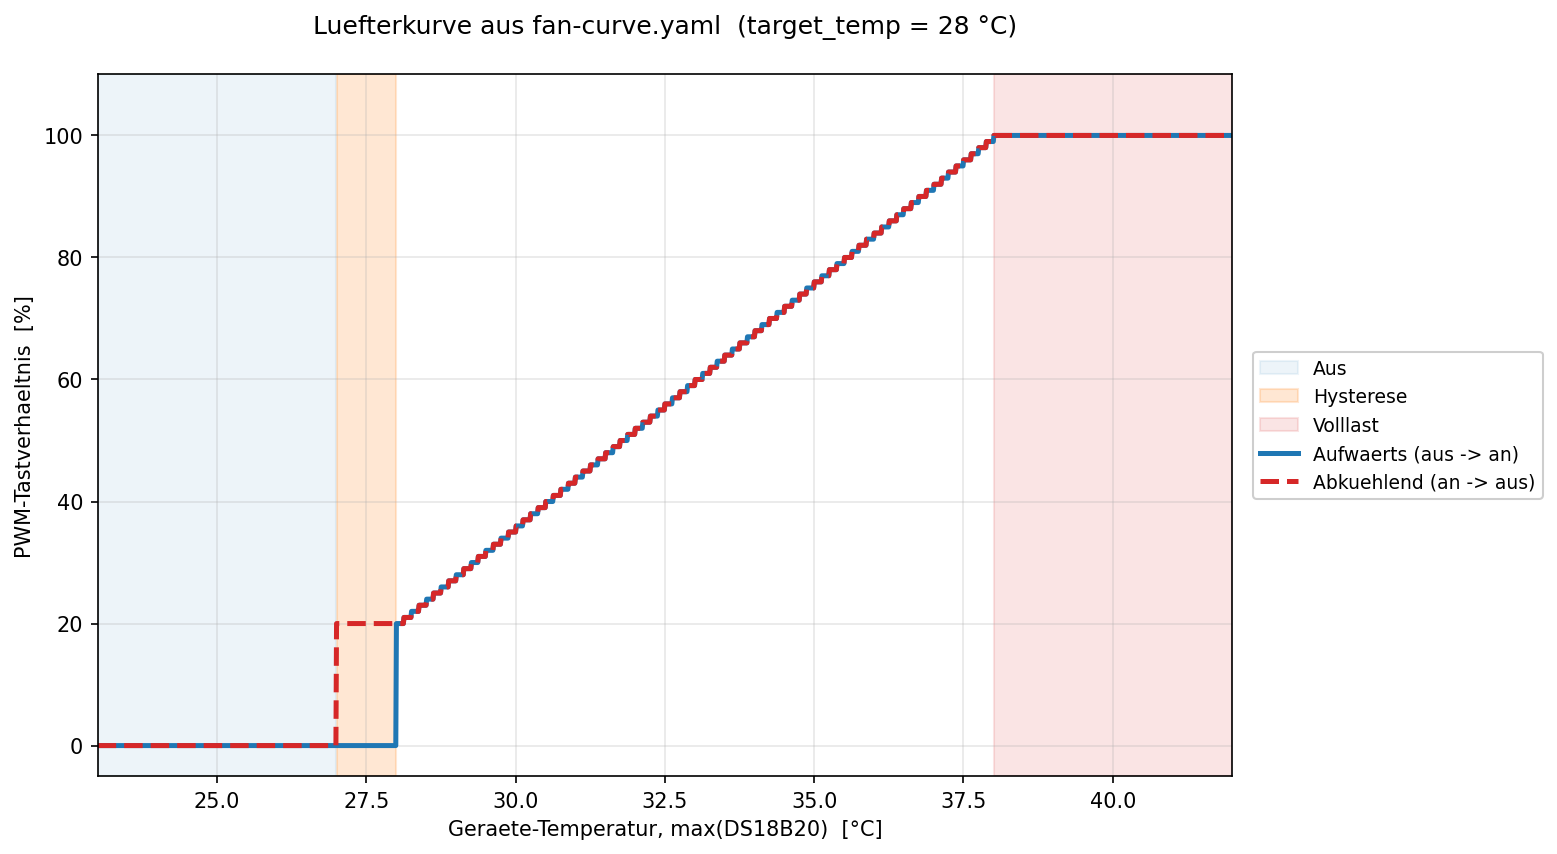
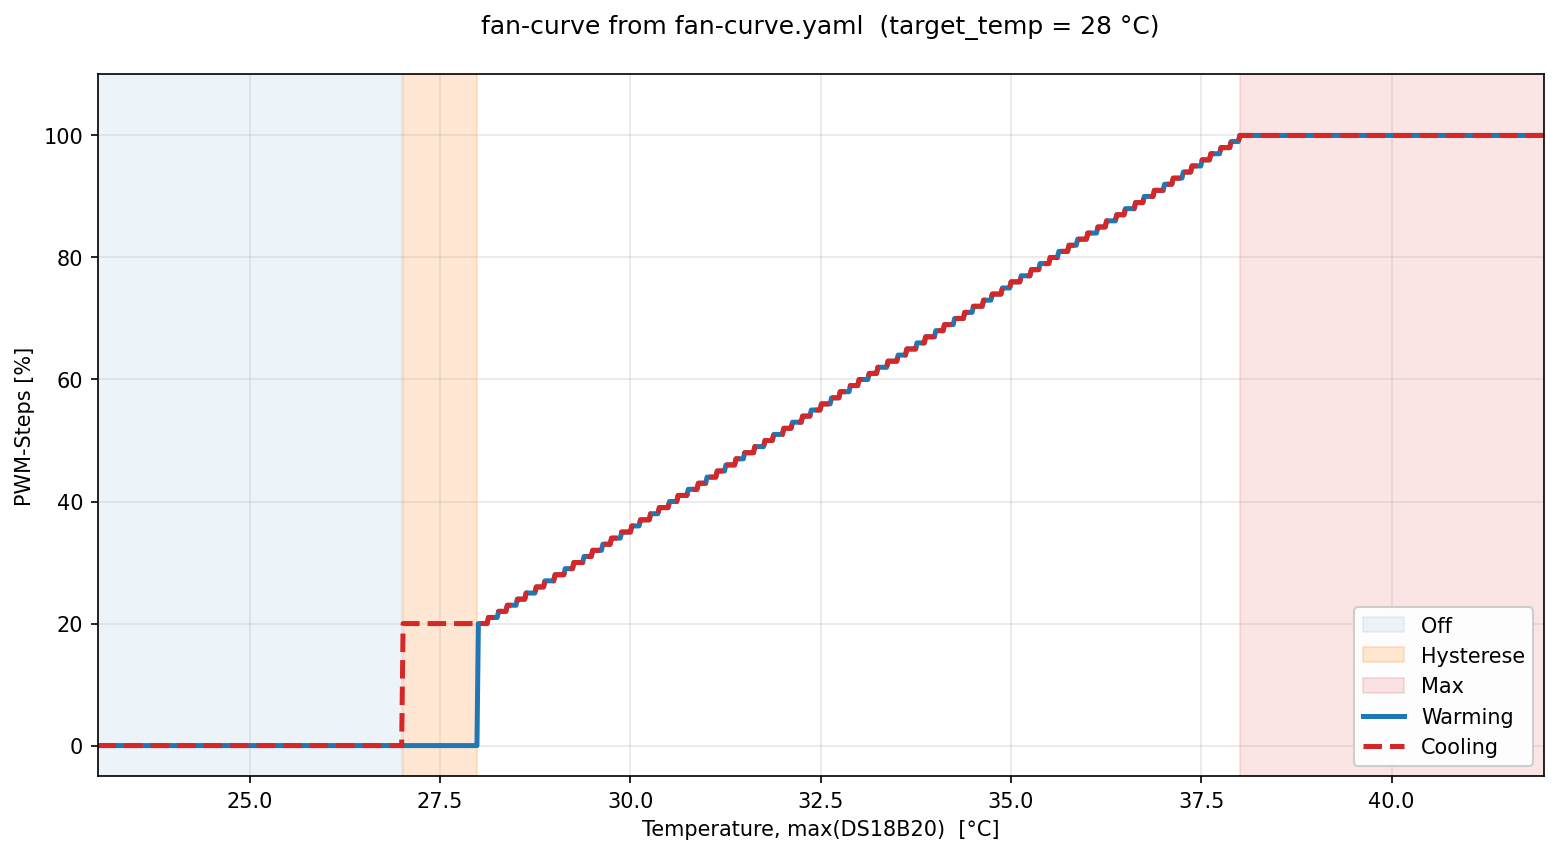
plot-updates

diff --git a/esphome/temperature-simulator/fan-curve-plot.py b/esphome/temperature-simulator/fan-curve-plot.py
@@ -221,26 +221,25 @@ def plot(temps: np.ndarray, warming_pct: np.ndarray, cooling_pct: np.ndarray,
             prev = i
         ax.axvspan(temps[start], temps[prev], alpha=alpha, color=color, label=label)
 
-    shade(aus_mask,  "tab:blue",   0.08, "Aus")
+    shade(aus_mask,  "tab:blue",   0.08, "Off ")
     shade(hyst_mask, "tab:orange", 0.18, "Hysterese")
-    shade(full_mask, "tab:red",    0.12, "Volllast")
+    shade(full_mask, "tab:red",    0.12, "Max")
 
     ax.plot(temps, warming_pct, color="#1f77b4", lw=2.4,
-            label="Aufwaerts (aus -> an)")
+            label="Warming")
     ax.plot(temps, cooling_pct, color="#d62728", lw=2.4, ls="--",
-            label="Abkuehlend (an -> aus)")
+            label="Cooling")
 
-    ax.set_xlabel("Geraete-Temperatur, max(DS18B20)  [°C]")
-    ax.set_ylabel("PWM-Tastverhaeltnis  [%]")
+    ax.set_xlabel("Temperature, max(DS18B20)  [°C]")
+    ax.set_ylabel("PWM-Steps [%]")
     ax.set_title(
-        f"Luefterkurve aus {yaml_path.name}  (target_temp = {t_target:.0f} °C)\n"
+        f"fan-curve from {yaml_path.name}  (target_temp = {t_target:.0f} °C)\n"
     )
     ax.set_xlim(temps[0], temps[-1])
     ax.set_ylim(-5, 110)
     ax.set_yticks(range(0, 101, 20))
     ax.grid(True, alpha=0.3)
-    ax.legend(loc="center left", bbox_to_anchor=(1.01, 0.5), fontsize=9,
-              framealpha=0.95)
+    ax.legend(loc="lower right", framealpha=0.95)
 
     fig.tight_layout()
     fig.savefig(outfile, dpi=150, bbox_inches="tight")
@@ -265,7 +264,7 @@ def main() -> None:
                         help="Untere Temperatur des Sweeps. Default: target_temp - 5")
     parser.add_argument("--t-max", type=float, default=None,
                         help="Obere Temperatur des Sweeps. Default: target_temp + 14")
-    parser.add_argument("--steps", type=int, default=1801,
+    parser.add_argument("--steps", type=int, default=1000,
                         help="Anzahl Sweep-Punkte. Default: 1801 (~0.01 °C)")
     parser.add_argument("-o", "--output", type=Path, default=Path("esphome/temperature-simulator/fan_curve.png"))
     parser.add_argument("--show", action="store_true")